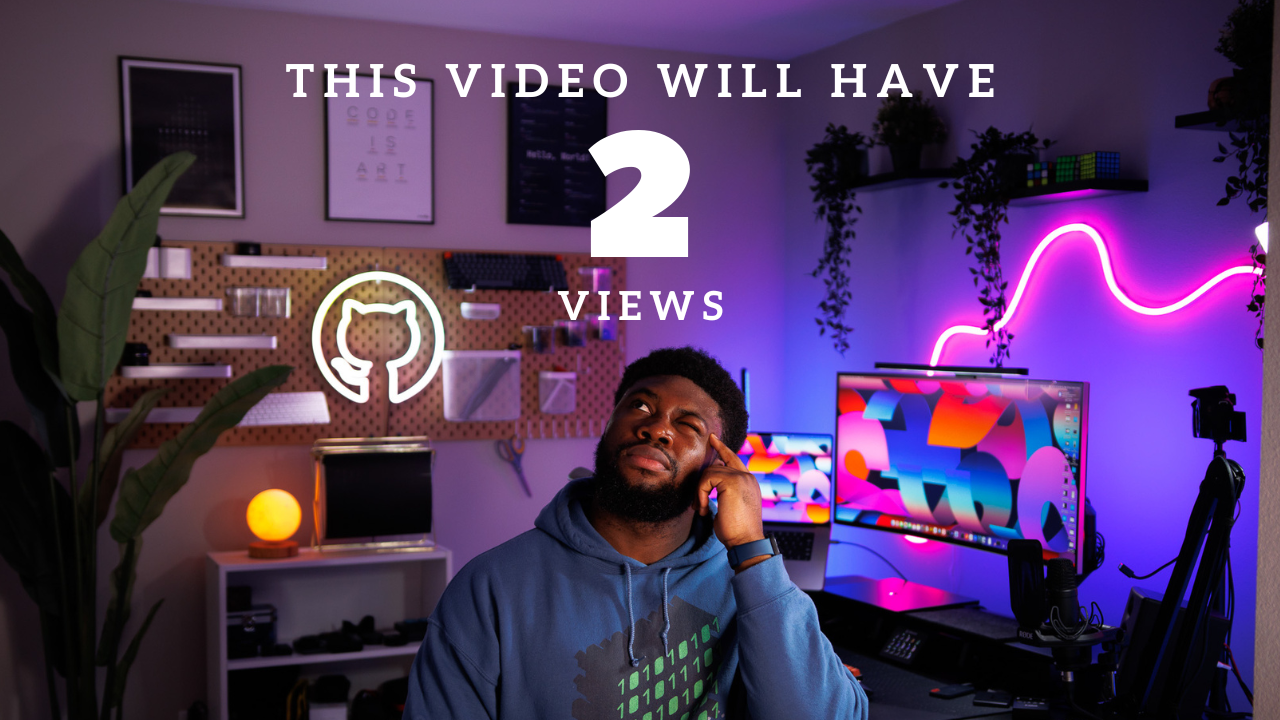
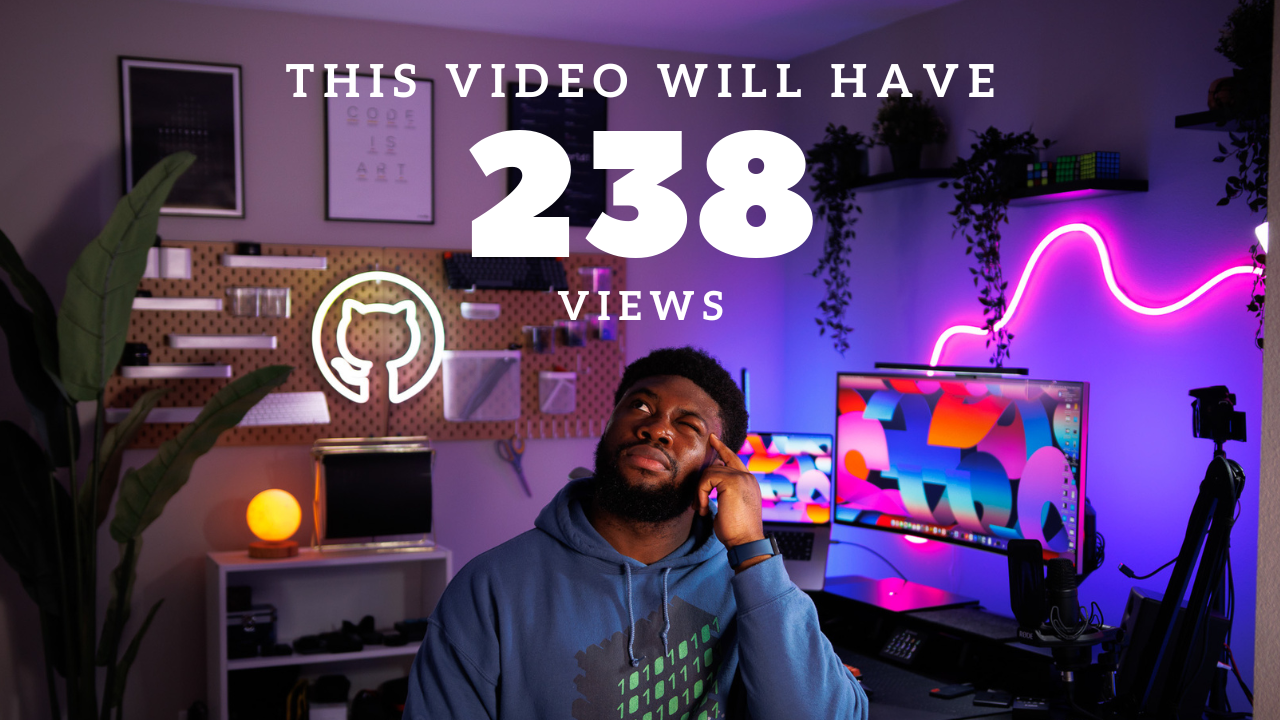
WIP

Changed region(s): [[0.3438, 0.1833, 0.6562, 0.3667]]

diff --git a/app.py b/app.py
@@ -128,7 +128,7 @@ def update_view_count_and_thumbnail():
   update_responses = {}
   update_responses['title_update_response'] = title_update_response
   update_responses['thumbnail_update_response'] = thumbnail_update_response
-  print(update_responses)
+  # print(update_responses)
   print("Successfully Updated Video Title and Thumbnail")
   print("==================================")
   return update_responses
@@ -159,8 +159,8 @@ def youtube_authenticate():
 
 
 scheduler = BackgroundScheduler(daemon=True)
-scheduler.add_job(update_view_count_and_thumbnail,'interval',minutes=2)
-# scheduler.add_job(update_view_count_and_thumbnail,'interval',seconds=5)
+scheduler.add_job(update_view_count_and_thumbnail,'interval',minutes=60)
+# scheduler.add_job(update_view_count_and_thumbnail,'interval',seconds=10)
 scheduler.start()
 
 if __name__ == '__main__':
